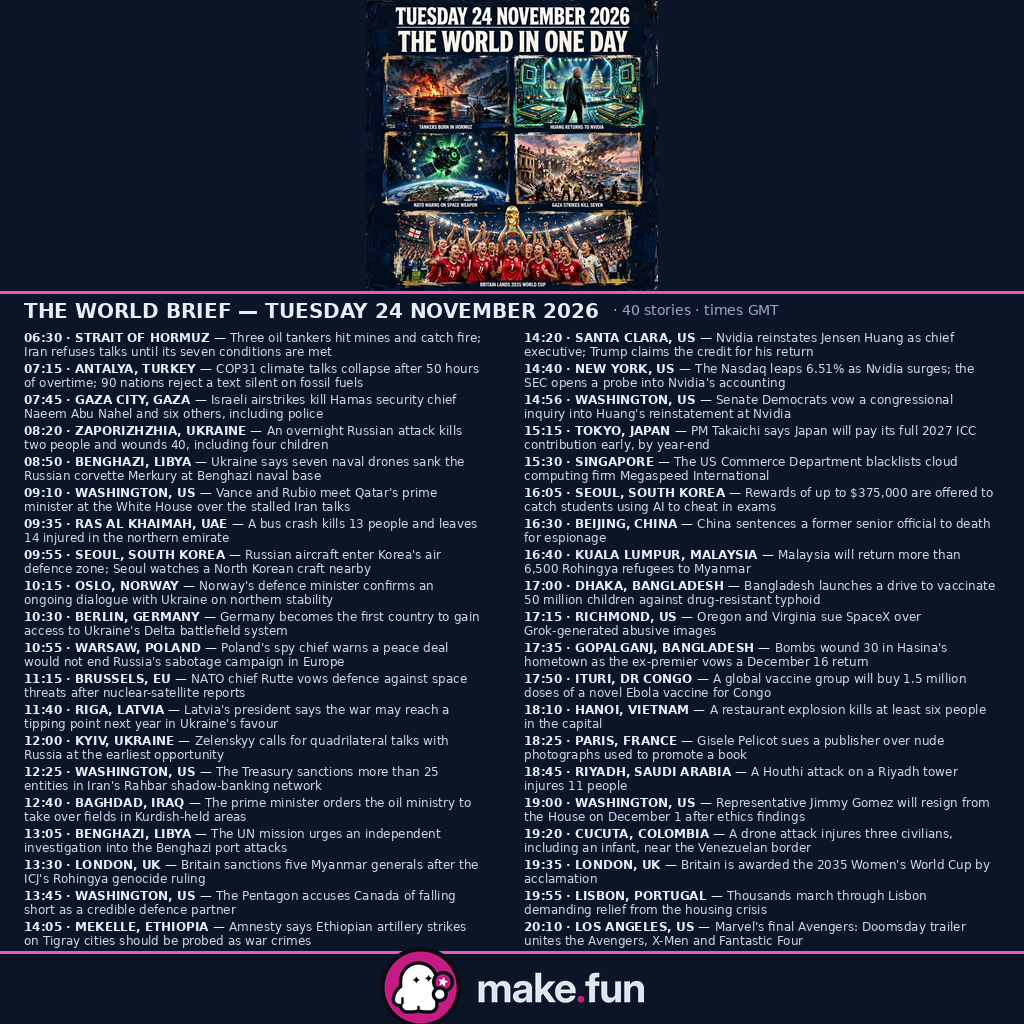
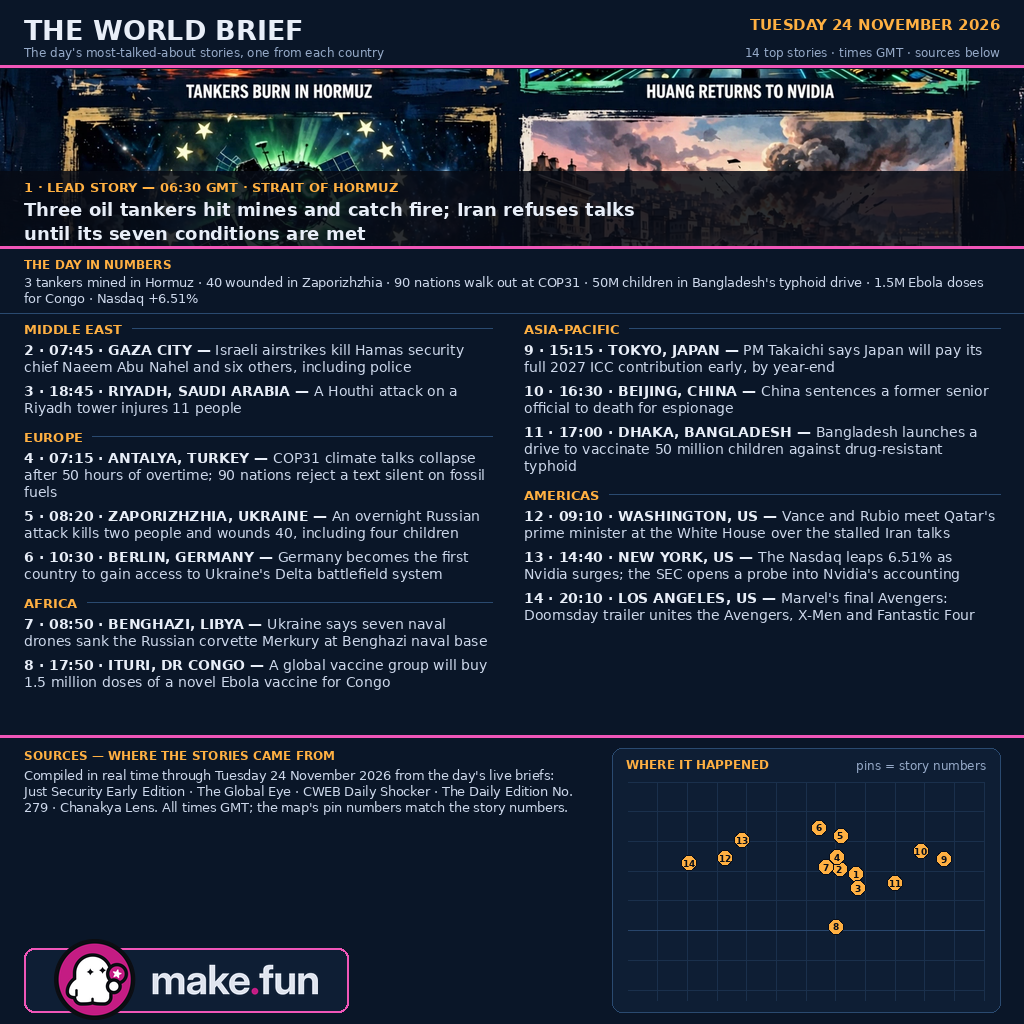
Front page v4: editorial hierarchy — full-width lead, day-in-numbers strip, 14 top stories grouped by region, numbered location map bottom-right, sources strip, boxed make.fun lockup

diff --git a/README.md b/README.md
@@ -1,6 +1,6 @@
 # The World in One Day — Tuesday 24 November 2026
 
-One image summing up the world news of Tuesday 24 November 2026, made for make.fun's news-image-20261124 bounty. A five-panel editorial collage of the day's biggest stories, over **The World Brief: 40 stories from the day, each with its dateline and the time it moved (GMT)** — the Strait of Hormuz, Antalya, Gaza City, Zaporizhzhia, Benghazi, Washington, Ras Al Khaimah, Seoul, Oslo, Berlin, Warsaw, Brussels, Riga, Kyiv, Baghdad, London, Mekelle, Santa Clara, New York, Tokyo, Singapore, Kuala Lumpur, Beijing, Dhaka, Richmond, Gopalganj, Ituri, Hanoi, Paris, Riyadh, Cucuta, Lisbon and Los Angeles. The five panels:
+One image summing up the world news of Tuesday 24 November 2026, made for make.fun's news-image-20261124 bounty. **The World Brief** is built like a front page, not a list: a full-width lead story (the Strait of Hormuz tanker strikes) over an editorial collage of the day, a "day in numbers" strip, then the day's 14 most-talked-about stories — one from each country, grouped by region (Middle East, Europe, Africa, Asia-Pacific, Americas), every story numbered with its dateline and the time it moved (GMT). A numbered location map ("Where it happened") sits at bottom-right, a sources strip names the live briefs the page was compiled from in real time, and the make.fun lockup is boxed at bottom-left. The collage panels:
 
 - **Tankers burn in Hormuz** — Iran refuses talks until its conditions are met as three oil tankers hit mines in the Strait of Hormuz and the US naval blockade holds; Vance and Rubio host Qatar's prime minister at the White House.
 - **Huang returns to NVIDIA** — Jensen Huang is reinstated as Nvidia's CEO, with Trump claiming the credit and Senate Democrats vowing an inquiry.
